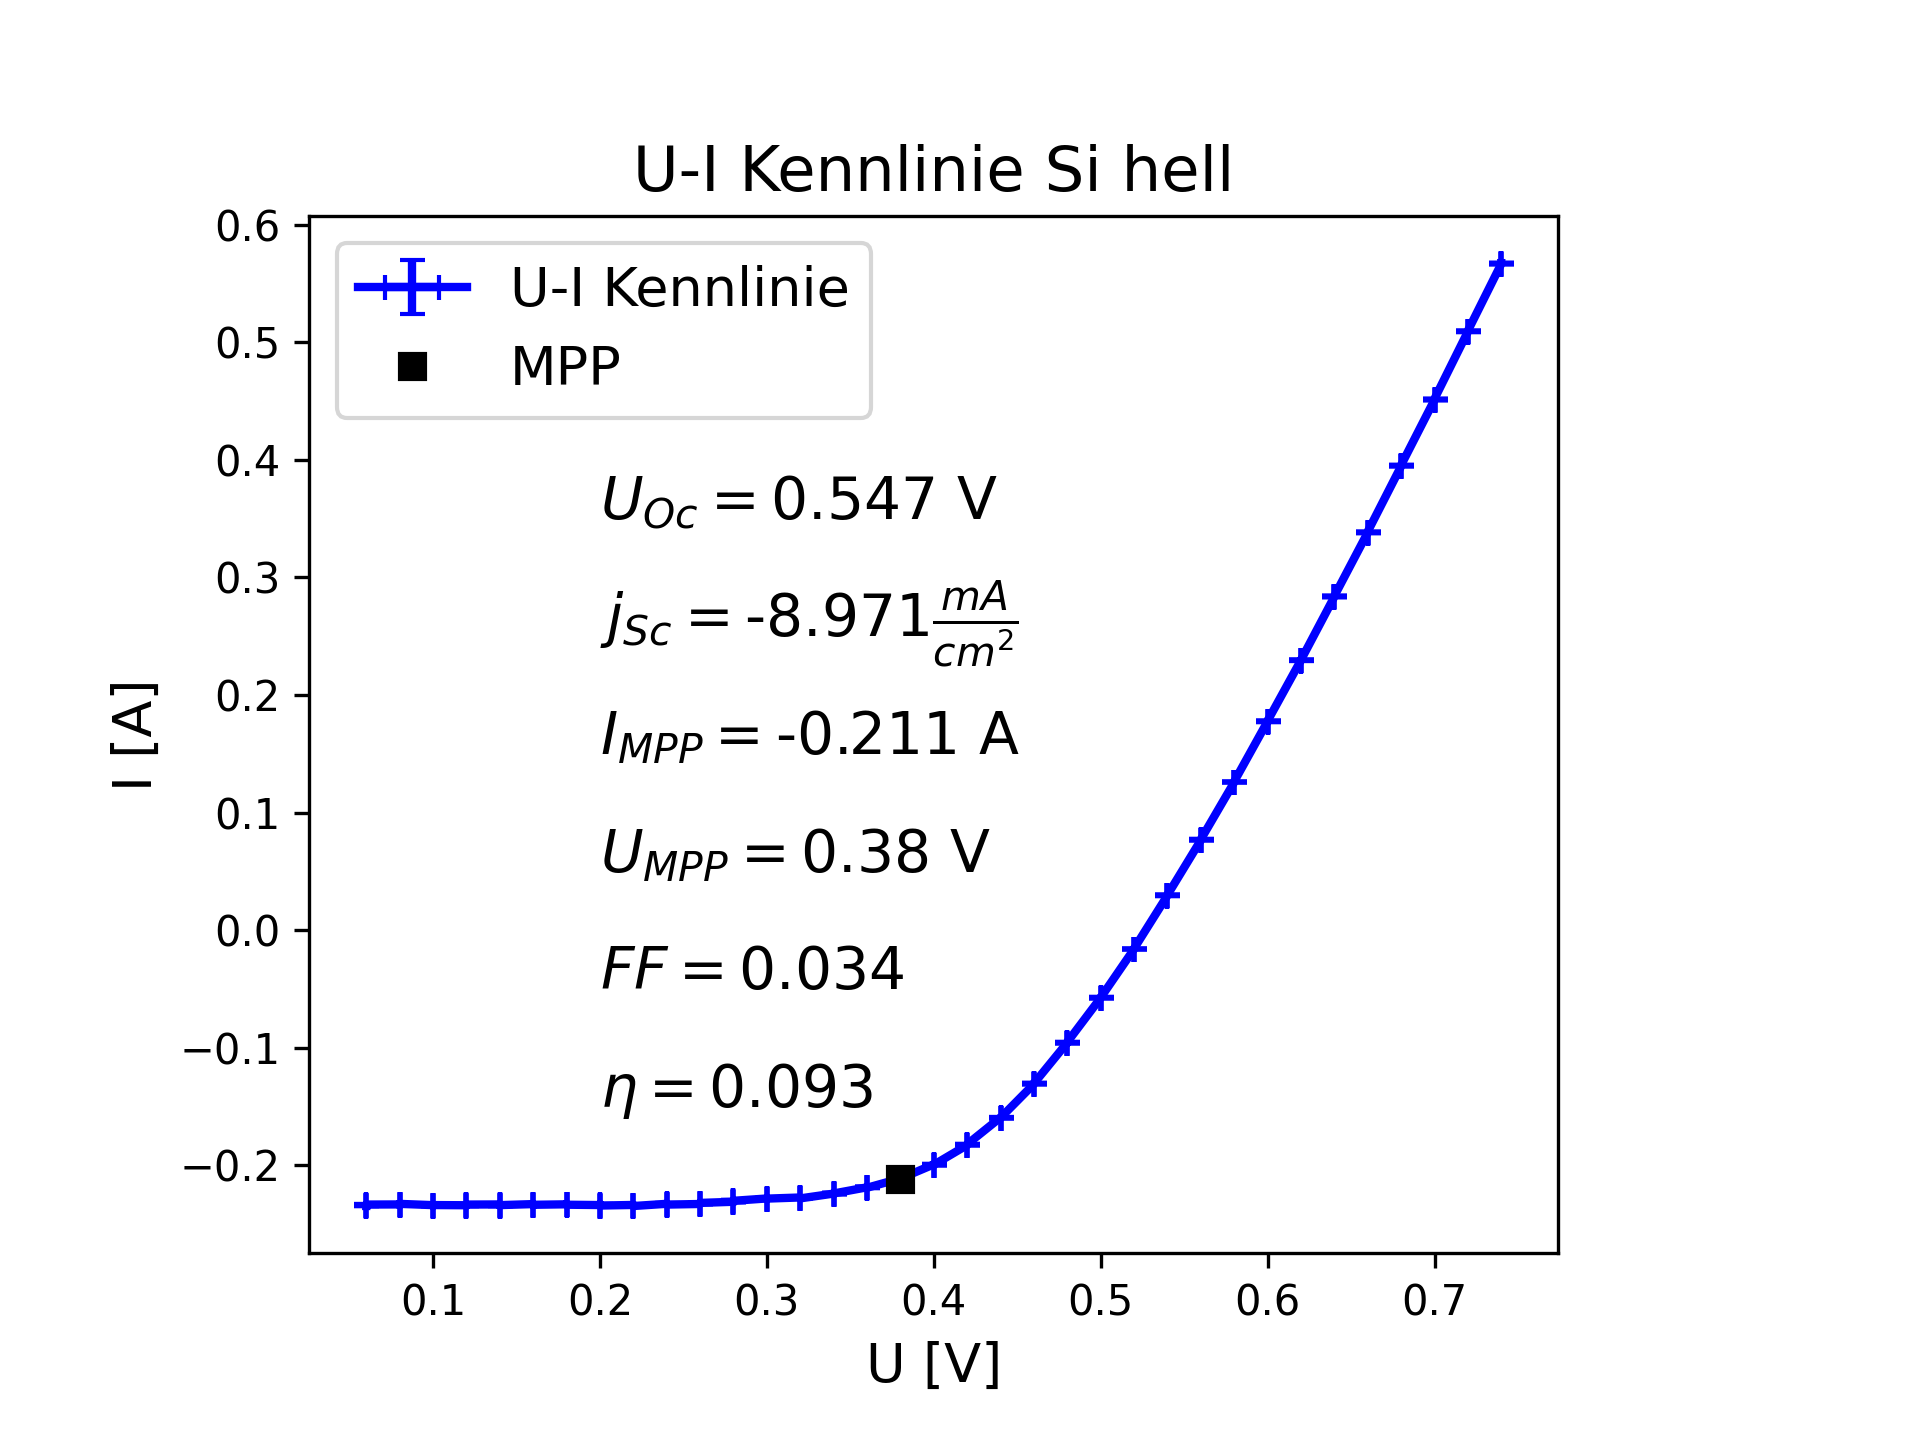
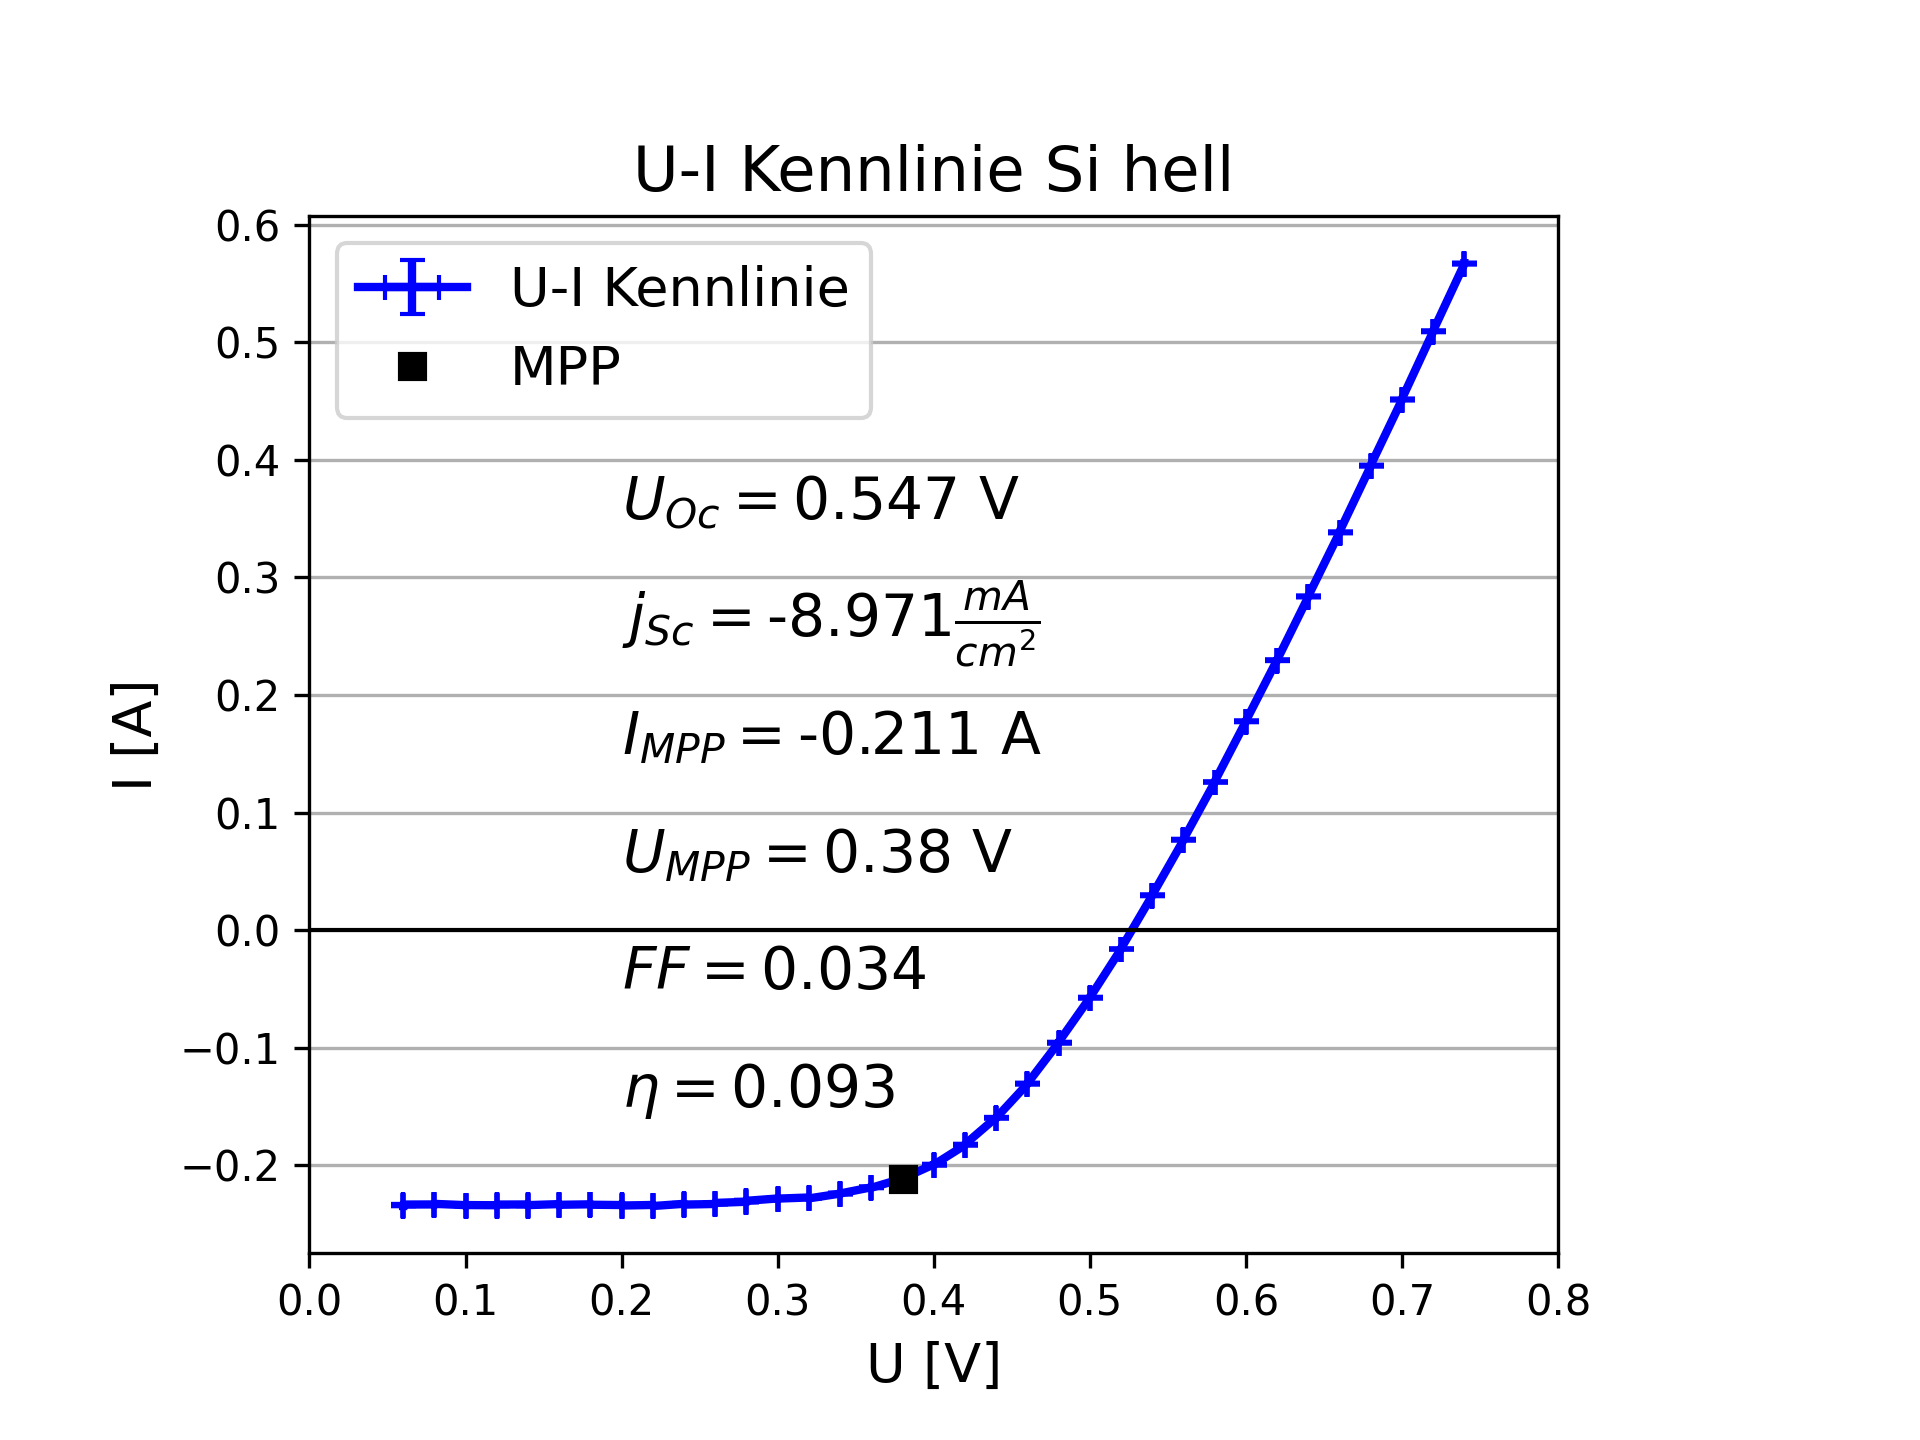
Das ist mein Code.

diff --git a/Auswertung.py b/Auswertung.py
@@ -211,6 +211,8 @@ plt.errorbar(a_an_11mV["voltage / V"][530:880], a_an_11mV["current / A"][530:880
             linewidth = 2, color = "blue", capsize=3)  #Normaler Plot
 plt.errorbar(U_MPP, I_MPP, fmt = "s", color = "black")
 
+plt.errorbar(np.linspace(0, 0.8, 1000), np.linspace(0, 0, 1000), color = "black", linewidth = "1")
+
 plt.title('U-I Kennlinie Si hell', fontsize = 15)
 plt.text( 0.2, 0.35, "$U_{Oc} = $" + str(round(U_OC, 3)) + " V", fontsize = 14)   #U_OC
 plt.text( 0.2, 0.25, "$j_{Sc} = $" + str(round(j_sc*1e3, 3)) + r"$\frac{mA}{cm^2}$", fontsize = 14)   #j_sc
@@ -220,7 +222,8 @@ plt.text( 0.2, -0.05, "$FF = $" + str(round(FF, 3)), fontsize = 14)
 plt.text( 0.2, -0.15, "$\eta = $" + str(round(Wirkungsgrad, 3)), fontsize = 14)
 plt.xlabel('U [V]' , fontsize = 13)
 plt.ylabel('I [A]', fontsize = 13)
-#plt.grid(True)
+plt.xlim(xmin=0, xmax = 0.8)
+plt.grid(b = True, which = "major", axis = "y")
 plt.legend(['U-I Kennlinie', "MPP"], fontsize = 13)
 plt.savefig('Plots/Hell_Si.png', dpi=300)
 plt.clf()
